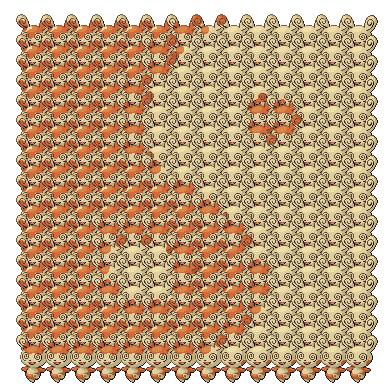
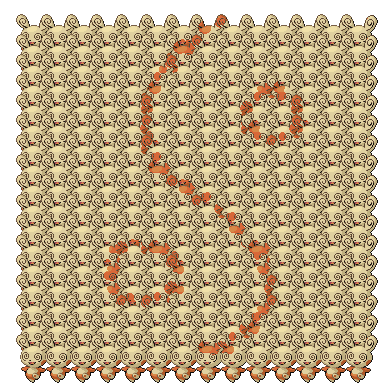
Better

Changed region(s): [[0.0308, 0.0312, 0.7095, 0.9688], [0.617, 0.2188, 0.8021, 0.375], [0.617, 0.9375, 0.6478, 0.9688]]

diff --git a/spindafy.py b/spindafy.py
@@ -21,8 +21,8 @@ class SpindaConfig:
 
     sprite_mask_color_arr = np.array(sprite_mask)
 
-    sprite_mask_arr = np.array(sprite_mask)[:, :, 3]
-    spot_masks_arr = [np.array(i)[:, :, 3] for i in spot_masks]
+    sprite_mask_arr = np.array(sprite_mask)[:, :, 3] > 0
+    spot_masks_arr = [np.array(i)[:, :, 3] > 0 for i in spot_masks]
 
     def __init__(self):
         self.spots = [
@@ -96,16 +96,12 @@ class SpindaConfig:
             pos = (self.spot_offsets[index][1] + self.spots[index][1], 
                    self.spot_offsets[index][0] + self.spots[index][0])
             
-            spot_arr = self.spot_masks_arr[index]
-            sa_shape = (pos[0] + spot_arr.shape[0], pos[1] + spot_arr.shape[1])
+            # spot_arr = self.spot_masks_arr[index]
+            sa_shape = (pos[0] + self.spot_masks_arr[index].shape[0], pos[1] + self.spot_masks_arr[index].shape[1])
 
-            full_mask = np.logical_and(spot_arr, self.sprite_mask_color_arr[pos[0]:sa_shape[0], pos[1]:sa_shape[1], 3])
+            full_mask = self.spot_masks_arr[index] & self.sprite_mask_arr[pos[0]:sa_shape[0], pos[1]:sa_shape[1]]
 
             base[pos[0]:sa_shape[0], pos[1]:sa_shape[1]][full_mask] = self.sprite_mask_color_arr[pos[0]:sa_shape[0], pos[1]:sa_shape[1]][full_mask]
-
-            # subbase = base[pos[0]:sa_shape[0], pos[1]:sa_shape[1]]
-            # full_mask = np.repeat(full_mask[...,None], 4, 2)
-            # base[pos[0]:sa_shape[0], pos[1]:sa_shape[1]] = np.where(full_mask, self.sprite_mask_color_arr[pos[0]:sa_shape[0], pos[1]:sa_shape[1]], subbase)
         
         return base
 
@@ -123,7 +119,7 @@ class SpindaConfig:
         if target.mode != "RGB":
             target = target.convert("RGB")
         # Compare the resulting images by the total average pixel difference
-        result = self.render_pattern(only_pattern=True, crop=True).convert("RGB")
+        result = self.render_pattern_2(only_pattern=True, crop=True).convert("RGB")
         diff = ImageChops.difference(target, result)
         total_diff = 0
         for n, (r, g, b) in diff.getcolors():  # gives a list of counter and RGB values in the image
@@ -133,8 +129,8 @@ class SpindaConfig:
     def get_difference(self, target: Image.Image | np.ndarray):
 
         if type(target) == Image.Image:
-            if target.mode != "RGB":
-                target = target.convert("RGB")
+            if target.mode != "1":
+                target = target.convert("1")
             
             tarr = np.array(target)
         else:
@@ -149,14 +145,11 @@ class SpindaConfig:
             spot_arr = self.spot_masks_arr[index]
             sa_shape = (pos[0] + spot_arr.shape[0], pos[1] + spot_arr.shape[1])
 
-            base[pos[0]:sa_shape[0], pos[1]:sa_shape[1]] = spot_arr & self.sprite_mask_arr[pos[0]:sa_shape[0], pos[1]:sa_shape[1]]
+            base[pos[0]:sa_shape[0], pos[1]:sa_shape[1]][spot_arr] = self.sprite_mask_arr[pos[0]:sa_shape[0], pos[1]:sa_shape[1]][spot_arr]
         
         base = base[15:48, 17:52]
-        base = np.repeat(base[..., None], 3, 2)
 
-
-        diff = np.sum(np.abs(base - tarr))
-        return diff
+        return np.count_nonzero(base ^ tarr)
     
     def get_difference_single(self, tarr: np.ndarray, index: int):
 
@@ -165,14 +158,16 @@ class SpindaConfig:
         
         sa_shape = (pos[0] + self.spot_masks_arr[index].shape[0], pos[1] + self.spot_masks_arr[index].shape[1])
 
-        base = np.zeros((64, 64), dtype=tarr.dtype)
-        base[pos[0]:sa_shape[0], pos[1]:sa_shape[1]] = self.spot_masks_arr[index] & self.sprite_mask_arr[pos[0]:sa_shape[0], pos[1]:sa_shape[1]]
+        base = np.zeros((64, 64), dtype=np.bool)
+        base[15:48, 17:52] = tarr
+        base[pos[0]:sa_shape[0], pos[1]:sa_shape[1]] ^= self.spot_masks_arr[index] & self.sprite_mask_arr[pos[0]:sa_shape[0], pos[1]:sa_shape[1]]
 
-        return np.sum(base[15:48, 17:52] ^ tarr)
+        return np.count_nonzero(base)
             
 
 if __name__ == "__main__":
-    spin = SpindaConfig.from_personality(0x7a397866)
+    spin = SpindaConfig.from_personality(8384767)
+    spin.render_pattern().show()
     print(timeit("""spin.render_pattern()""", globals=vars(), number=1000))
     print(timeit("""spin.render_pattern_2()""", globals=vars(), number=1000))
     print(timeit("""spin.get_difference_2(Image.new("RGB", (35, 33)))""", globals=vars(), number=1000))

diff --git a/large_spinda.py b/large_spinda.py
@@ -1,58 +1,64 @@
 from PIL import Image
-from spinda_optimizer import evolve, fast_evo
+from spinda_optimizer import evolve, fast_evo, PREDEFINED
 import json, PIL.ImageOps
 import numpy as np
 from timeit import timeit
+from spindafy import SpindaConfig
+import cv2
+from time import sleep
+
+
+to_prerender = [*PREDEFINED.values(), 8384767, 1044735]
+prerendered = {pid: SpindaConfig.from_personality(pid).render_pattern() for pid in to_prerender}
 
 # this is definitely not the best way of doing this!
-def to_spindas(filename, pop, n_generations, invert = False, use_np=False):
+def to_spindas(filename, pop, n_generations, invert = False):
     with Image.open(filename) as target:
-        target = target.convert("1")
+        target = target.convert("L")
         target = target.resize((target.size[0] // 2, target.size[1] // 2), resample=Image.Resampling.NEAREST)
         if invert: target = PIL.ImageOps.invert(target)
-
-        tarr = np.array(target)
 
         num_x = int((target.size[0]+10)/25)
         num_y = int((target.size[1]+13)/20)
 
-        tarr = np.pad(tarr, ((0, num_y*20+33 - tarr.shape[0]), (0, num_x*25+35 - tarr.shape[1])))
+        canny = cv2.Canny(np.array(target), 50, 150)
+        canny = cv2.dilate(canny, np.full((10, 10), 1))
 
-        if not use_np:
-            img = Image.new("RGBA", (39 + num_x * 25, 44 + num_y * 20))
-        else:
-            img = np.zeros(( 44 + num_y * 20, 39 + num_x * 25, 4), dtype=np.uint8)
-        pids = [[0] * num_x for _ in range(num_y)]
+        tarr = np.zeros((num_y*20+33, num_x*25+35), dtype=np.bool)
+        tarr[:target.size[1], :target.size[0]] = canny
+
+        img = Image.new("RGBA", (39 + num_x * 25, 44 + num_y * 20))
+        pids = []
 
         for y in range(num_y):
+            pids.append([])
             for x in range(num_x):
                 sub_target = tarr[y*20:y*20+33, x*25:x*25+35]
-                (_, best_spinda) = evolve(sub_target, pop_size=0, n_gens=0)
-                
-                if not use_np:
-                    spinmage = best_spinda.render_pattern()
-                    img.paste(
-                        spinmage,
-                        (x * 25, y * 20),
-                        spinmage
-                    )
-                else:
-                    spinmage = best_spinda.render_pattern_arr()
-                    spinmage_mask = spinmage[:, :, 3] > 0#np.repeat((spinmage[:, :, 3:] > 0), 4, axis=2)
-                    img[y * 20:y * 20 + spinmage.shape[0], x * 25:x * 25 + spinmage.shape[1]][spinmage_mask] = spinmage[spinmage_mask]
-                
-                pids[y][x] = (best_spinda.get_personality())
 
-        if use_np:
-            return (Image.fromarray(img), pids)
-        else:
-            return (img, pids)
-    
+                (_, best_spinda) = evolve(sub_target, pop_size=0, n_gens=0)
+                # print(best_spinda.get_difference(sub_target))
+
+                if best_spinda.get_personality() in prerendered:
+                    spinmage = prerendered[best_spinda.get_personality()]
+                    # print(best_spinda.get_personality(), best_spinda.get_difference(sub_target))
+                else:
+                    spinmage = best_spinda.render_pattern()
+                    prerendered[best_spinda.get_personality()] = spinmage
+                
+                img.paste(
+                    spinmage,
+                    (x * 25, y * 20),
+                    spinmage
+                )
+                
+                pids[y].append(best_spinda.get_personality())
+
+        return (img, pids)
+
 if __name__ == "__main__":
     from time import time
-    (img, pids) = to_spindas("test/test_large.png", 100, 10, use_np=True)
-    print(timeit("""to_spindas("test/test_large.png", 100, 10, use_np=True)""", globals=vars(), number=10) / 10)
-    print(timeit("""to_spindas("test/test_large.png", 100, 10, use_np=False)""", globals=vars(), number=10) / 10)
+    (img, pids) = to_spindas("test/test_large.png", 100, 10)
+    print(timeit("""to_spindas("test/test_large.png", 100, 10, invert=True)""", globals=vars(), number=10) / 10)
     img.resize((img.size[0]*10, img.size[1]*10), Image.Resampling.NEAREST)#.show()
     img.save("res/test_res.png")
     with open("res/test.json", "w") as f:

diff --git a/spinda_optimizer.py b/spinda_optimizer.py
@@ -7,6 +7,8 @@ PREDEFINED = {
     "ALL_WHITE": 0xff200000
 }
 
+cached = [8384767]
+
 
 BLACK = 1
 WHITE = -1
@@ -15,7 +17,7 @@ NEUTRAL = 0
 XNEXT = 25
 YNEXT = 20
 
-SINGLE_COLOR_THRESH = 20
+SINGLE_COLOR_THRESH = 0
 
 sp_mask = np.array(SpindaConfig.sprite_mask)[15:-16, 17:-12, 3] == 0
 sp_mask_nonzero = np.count_nonzero(sp_mask)
@@ -28,12 +30,6 @@ for i in range(4):
 white = SpindaConfig.from_personality(PREDEFINED["ALL_WHITE"])
 black = SpindaConfig.from_personality(PREDEFINED["ALL_BLACK"])
 
-test1_points = [(0, 0), (0, 15), (15, 0), (15, 15)]
-test2_points = {p: [(x, y) for x in (p[0] - 7, p[0] + 7)
-                           for y in (p[1] - 7, p[1] + 7)
-                           if 0 <= x <= 15 and 0 <= y <= 15] 
-                    for p in test1_points}
-
 def fast_evo(si: np.ndarray):
     
     # Sprite mask crop: image.crop((17, 15, 52, 48))
@@ -45,36 +41,42 @@ def fast_evo(si: np.ndarray):
 
     count = np.count_nonzero(counter)
     count2 = counter.size - count
-    # count2 = np.count_nonzero(~si[sp_mask])
-    # print(count, count2, count + count2, si.size, sp_mask.size, si[sp_mask].size)
-    # raise Exception()
     
     if count <= SINGLE_COLOR_THRESH:
         return white
     elif count2 <= SINGLE_COLOR_THRESH:
         return black
-    
+
+    tests = 0
+
     spinda = SpindaConfig()
+
     for spot_index in range(4):
 
         best_pos = (0, 0)
         best_sim = 1e10
-        for i, j in test1_points:
-            spinda.spots[spot_index] = (i, j)
-            sim = spinda.get_difference_single(si, spot_index)
-            if sim < best_sim:
-                best_sim = sim
-                best_pos = (i, j)
+
+        radius = 15
+        num_steps = 1
         
-        for i, j in test2_points[best_pos]:
-            spinda.spots[spot_index] = (i, j)
-            sim = spinda.get_difference_single(si, spot_index)
-            if sim < best_sim:
-                best_sim = sim
-                best_pos = (i, j)
+        for iter in range(2):
+            low = max(best_pos[0] - radius, 0), max(best_pos[1] - radius, 0)
+            high = min(best_pos[0] + radius, 15), min(best_pos[1] + radius, 15)
+            for i in range(low[0], high[0] + 1, (high[0] - low[0]) // num_steps):
+                for j in range(low[1], high[1] + 1, (high[1] - low[1]) // num_steps):
+                    if (i, j) == best_pos and iter > 0:
+                        continue
+                    spinda.spots[spot_index] = (i, j)
+                    sim = spinda.get_difference_single(si, spot_index)
+                    tests += 1
+                    if sim < best_sim:
+                        best_sim = sim
+                        best_pos = spinda.spots[spot_index]
+            radius //= 2
+        tests = 0
                 
         spinda.spots[spot_index] = best_pos
-
+    
     return spinda
 
 

diff --git a/rename_files.py b/rename_files.py
@@ -1,8 +1,29 @@
 import os
 import re
+import json
 
-for file in os.listdir("adef_spinda"):
-    # new = f"adef_spinda/frame{int(file[5:-4]):07}.png"
-    # os.rename("adef_spinda/" + file, new)
-    if len(file[5:-4]) < 7 or int(file[5:-4]) > 32000:
-        os.unlink(f"adef_spinda/{file}")
+# for file in os.listdir("adef_spinda"):
+#     # new = f"adef_spinda/frame{int(file[5:-4]):07}.png"
+#     # os.rename("adef_spinda/" + file, new)
+#     if len(file[5:-4]) < 7 or int(file[5:-4]) > 32000:
+#         os.unlink(f"adef_spinda/{file}")
+
+pids = []
+
+all_files = os.listdir("badspinda/pids")
+
+for fno, file in enumerate(all_files):
+    if fno % 50 == 0:
+        print(f"{fno} / {len(all_files)} ({fno / len(all_files) * 100}%)")
+    fp = open("badspinda/pids/" + file)
+    output: list[list[int]] = json.load(fp)
+    for row in output:
+        pids += row
+    fp.close()
+
+print(len(pids))
+
+hist = sorted(list(set(pids)), key=lambda i: pids.count(i), reverse=True)
+
+for pid in hist:
+    print(f"{pid} ({pids.count(pid)})")
